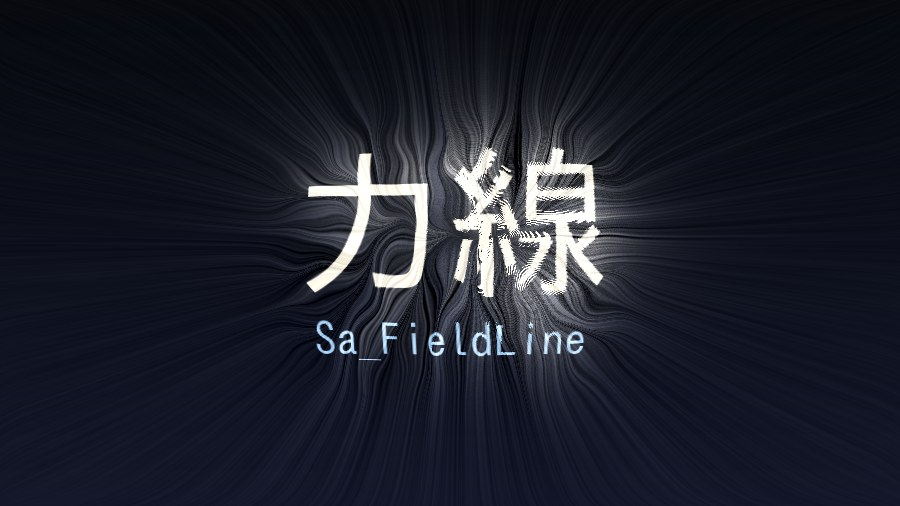
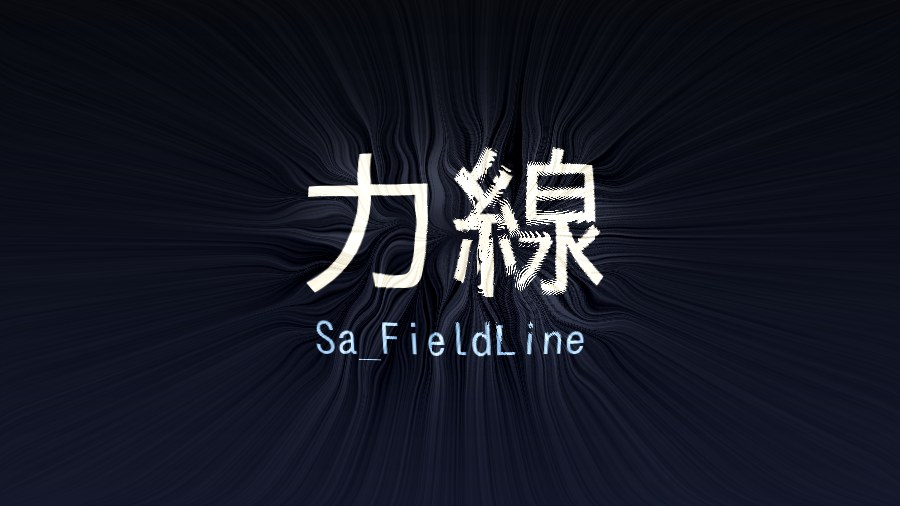
Pull the colour from the ridge, not from a fixed distance
The stretched bands on text came out as soft gradients instead of solid
colour. Measuring the sources showed why: 58% of the high-priority pixels
were picking a background colour.

conf spans a band as wide as the contour scale, so a pixel sitting on the
outer rim of that band is still over the background a few pixels upstream.
It then becomes a strong seed carrying the background colour, and it
outranks the real contour colour in the argmax. The bands were being
blocked by their own halo.

The pick now climbs to the ridge of the contour density instead, looking
at four points upstream and weighting them by how much higher phi is than
here. A pixel already on the ridge — inside a glyph or a line drawing —
gets no weight anywhere and keeps its own colour, which is what stops the
glyph faces being painted over with background.

Weighting rather than taking the highest matters: argmax flips which point
wins between neighbouring pixels and the comb pattern comes back (0.0089 →
0.0249 on the synthetic scene). The weighted mean is smooth in space and
the ridge still dominates: comb 0.0160 and the bands are slightly brighter
than argmax gave (37.7% vs 36.2%).

The search distance is max(parameter, 2 sigma_edge) — the band it has to
cross is set by the contour scale, so the parameter alone cannot know it.
Colour is also unpremultiplied at the pick now, so a colour taken from a
semi-transparent edge does not come out dark in a band we then paint at
full opacity.
[…]

Changed region(s): [[0.3111, 0.2075, 0.7156, 0.7411]]

diff --git a/prototype/gpu_sim.py b/prototype/gpu_sim.py
@@ -37,6 +37,8 @@ K_COH = 3.10           # p99(|v|) / rms(|v|)
 K_CURL = 0.014         # p97(curl)
 K_TURB = 0.08          # p88(turb) より大きめ。smoothness を上げた時だけ緩む
 LINE_SEED_EDGE = 0.7   # 力線の種を輪郭近くへ寄せる度合い
+PICK_GAIN = 6.0        # 色を拾う時、φ の登り幅に対する重みの立ち上がり
+PICK_OWN = 0.02        # 登り先が無い時に自分の色を残すための基礎重み
 K_GRAD = 0.30          # p99(|grad phi| * gs / phi_scale)
 
 # 較正用に build_field が途中経過を残す（calibrate_gpu.py が読む）
@@ -309,6 +311,17 @@ def build_field(rgb, p: GpuParams):
     }
 
 
+def pick_range(p: "GpuParams") -> float:
+    """色を拾うために上流を探す距離 [px]。
+
+    conf は輪郭のスケール（= detail_scale が決めるオクターブの σ）ぶん太い帯になる。
+    その帯を跨げない距離では、帯の外縁が背景色を運ぶ種になってしまう。
+    """
+    mu = (1.0 - float(np.clip(p.detail_scale, 0.0, 1.0))) * (EDGE_OCTAVES - 1)
+    edge_sigma = p.base_sigma * (2.0 ** mu)
+    return max(p.stretch_pick, 2.0 * edge_sigma)
+
+
 def _step_count(length, step_px, cap):
     return int(np.clip(round(abs(length) / max(step_px, 0.2)), 8, cap))
 
@@ -401,8 +414,28 @@ def stretch(colour, F, p: GpuParams):
     hs = (total_px / n) / S              # texel 単位の歩幅
     tie = 0.03 / max(total_px, 1.0)
 
-    pick = p.stretch_pick / S
-    col = _clampsamp(col0, yy - dy * pick, xx - dx * pick)
+    # 固定距離で拾ってはいけない。conf は輪郭のスケールぶん太い帯になるので、
+    # 帯の外縁にいる画素は数 px 上流を見ても背景のままで、
+    # 「背景色を運ぶ強い種」になって本来の輪郭色を塞ぐ。帯が眠くなる原因はこれ。
+    # 代わりに φ の尾根まで登り、登り切った所の色を拾う。すでに尾根にいる画素
+    # （＝構造の内側）は自分の色のままになるので、文字や線画の面が塗り潰されない。
+    # argmax で 1 点を選ぶと、隣接画素で選ばれる点が切り替わって細かい縞が出る。
+    # 「自分より φ が高いぶん」で重み付けした平均にすると空間的に滑らかになり、
+    # なおかつ尾根の色が支配的になる。登り先が無ければ自分の色のまま。
+    pick = pick_range(p) / S
+    phi = d2d_up(F["B"][..., 1], (lh, lw))
+    own = _clampsamp(col0, yy, xx)
+    phi0 = _clampsamp(phi, yy, xx)
+    acc = own * PICK_OWN
+    wsum = np.full((lh, lw), PICK_OWN, np.float32)
+    for i in range(1, 5):
+        t = i * 0.25
+        sy = yy - dy * (pick * t)
+        sx = xx - dx * (pick * t)
+        wt = np.clip((_clampsamp(phi, sy, sx) - phi0) * PICK_GAIN, 0.0, 1.0) ** 2
+        acc = acc + _clampsamp(col0, sy, sx) * wt[..., None]
+        wsum = wsum + wt
+    col = (acc / wsum[..., None]).astype(np.float32)
     score = prio.copy()                  # score = 優先度 - tie * 伝播距離
 
     for _ in range(n):

diff --git a/prototype/fieldline.py b/prototype/fieldline.py
@@ -246,6 +246,16 @@ def _sample(img: np.ndarray, y: np.ndarray, x: np.ndarray, mode: str = "reflect"
 
 
 
+def _pick_range(p: Params) -> float:
+    """色を拾うために上流を探す距離 [px]。
+
+    conf は輪郭のスケール（= detail_scale が決めるオクターブの σ）ぶん太い帯になる。
+    その帯を跨げない距離では、帯の外縁が背景色を運ぶ種になってしまう。
+    """
+    mu = (1.0 - float(np.clip(p.detail_scale, 0.0, 1.0))) * (p.octaves - 1)
+    return max(p.stretch_pick, 2.0 * p.base_sigma * (2.0 ** mu))
+
+
 def _step_count(p: Params, length: float) -> int:
     """歩幅が px 単位で一定になるようにステップ数を決める（ジャギー防止）。"""
     return int(np.clip(round(abs(length) / max(p.step_px, 0.2)), 8, p.steps))
@@ -456,11 +466,31 @@ def flow_flood(fieldset, lin: np.ndarray, p: Params, length_scale: float = 1.0):
     n = _step_count(p, total)
     hstep = total / n
 
-    # 輪郭ちょうどは線画の色なので、少し内側（上流）から色を拾う
-    if p.stretch_pick > 1e-3:
-        col = _sample(lin, yy - dy * p.stretch_pick, xx - dx * p.stretch_pick)
-    else:
-        col = lin.copy()
+    # 輪郭ちょうどは線画の色なので、上流（面の側）から色を拾う。
+    #
+    # 固定距離で拾ってはいけない。conf は輪郭のスケールぶん太い帯になるので、
+    # 帯の外縁にいる画素は数 px 上流を見ても背景のままで、
+    # 「背景色を運ぶ強い種」になって本来の輪郭色を塞ぐ。帯が眠くなる原因はこれ。
+    # 代わりに φ（輪郭密度）の尾根まで登り、登り切った所の色を拾う。
+    # すでに尾根にいる画素（＝構造の内側）は自分の色のままになるので、
+    # 文字や線画の面が背景色で塗り潰されない。
+    # argmax で 1 点を選ぶと、隣接画素で選ばれる点が切り替わって細かい縞が出る。
+    # 「自分より φ が高いぶん」で重み付けした平均にすると空間的に滑らかになり、
+    # なおかつ尾根の色が支配的になる。登り先が無ければ自分の色のまま。
+    pick = _pick_range(p)
+    phi = fieldset["phi"]
+    own = _sample(lin, yy, xx)
+    phi0 = _sample(phi, yy, xx)
+    acc = own * 0.02
+    wsum = np.full((h, w), 0.02, np.float32)
+    for i in range(1, 5):
+        t = i * 0.25
+        sy = yy - dy * (pick * t)
+        sx = xx - dx * (pick * t)
+        wt = np.clip((_sample(phi, sy, sx) - phi0) * 6.0, 0.0, 1.0) ** 2
+        acc = acc + _sample(lin, sy, sx) * wt[..., None]
+        wsum = wsum + wt
+    col = (acc / wsum[..., None]).astype(np.float32)
 
     src = prio.copy()                      # 受け継いだ輪郭の強さ
     dist = np.zeros((h, w), np.float32)    # そこから伝播してきた距離

diff --git a/FieldLineProcessor.cs b/FieldLineProcessor.cs
@@ -252,6 +252,7 @@ internal sealed class FieldLineProcessor : IVideoEffectProcessor
         stretchInit.SetInput(0, advectOut, true);
         stretchInit.SetInput(1, radialOut, true);
         stretchInit.SetInput(2, prioCrop.Output, true);
+        stretchInit.SetInput(3, fieldBOut, true);
 
         composite.SetInput(0, advectOut, true);
 
@@ -470,13 +471,18 @@ internal sealed class FieldLineProcessor : IVideoEffectProcessor
             FieldLineGraph.SetBlurSigma(prioBlur.Effect, (float)stretchWidth);
             FieldLineGraph.SetCropRect(prioCrop.Effect, rect);
 
-            stretchInit.C0 = new Vector4((float)pick, radialScale, 0f, 0f);
+            // conf は輪郭のスケールぶん太い帯になるので、色を拾う探索距離は
+            // その帯を跨げるだけ要る。足りないと帯の外縁が背景色を運ぶ種になり、
+            // 本来の輪郭色を塞いで帯が眠くなる。
+            var edgeSigma = BaseSigma * Math.Pow(2d, mu);
+            var pickRange = Math.Max(pick, 2d * edgeSigma);
+            stretchInit.C0 = new Vector4((float)pickRange, radialScale, 0f, 0f);
             stretchInit.C2 = rect;
             stretchInit.C3 = fieldRect;
             // 伝播は 100 パス近く連なるので、入力は「一部を広げて」ではなく「全体」を要求する。
             // 広げる形だと、D2D がタイルに分けて描いた時に上流の連鎖が
             // タイルごとに描き直され、深さぶんだけ無駄が積み上がる。
-            stretchInit.C5 = new Vector4(0f, 0f, 0f, 3f);
+            stretchInit.C5 = new Vector4(0f, 0f, 0f, 11f);   // 入力 0,1,3 は全体が要る
 
             var stepC0 = new Vector4((float)stepPx, radialScale, (float)tie, 0f);
             var stepC5 = new Vector4(0f, 0f, 0f, 3f);

diff --git a/FieldLineEffect.cs b/FieldLineEffect.cs
@@ -69,9 +69,9 @@ public sealed class FieldLineEffect : VideoEffectBase
     [AnimationSlider("F1", "px", 0, 64)]
     public Animation StretchWidth { get; } = new(0, 0, 256);
 
-    [Display(Name = "色を拾う位置", Description = "輪郭よりどれだけ内側の色を引き出すか。線画の黒ではなく面の色を出したい時に上げます", Order = 12)]
+    [Display(Name = "色を拾う位置", Description = "輪郭よりどれだけ内側の色を探すか。上流を探して「自分と実際に違う色」を拾います。輪郭の細かさに応じて自動で広がるので、これはその下限です", Order = 12)]
     [AnimationSlider("F1", "px", 0, 32)]
-    public Animation StretchPick { get; } = new(3, 0, 128);
+    public Animation StretchPick { get; } = new(4, 0, 128);
 
     [Display(Name = "引き伸ばしのひねり", Description = "放射をひねります。0%で真っ直ぐ外向きです", Order = 13)]
     [AnimationSlider("F1", "%", -100, 100)]

diff --git a/Effects/StretchInitPass.cs b/Effects/StretchInitPass.cs
@@ -30,7 +30,7 @@ internal sealed class StretchInitPass : D2D1CustomShaderEffectBase
     public Vector4 C4 { set => SetValue((int)Impl.Properties.C4, value); }
     public Vector4 C5 { set => SetValue((int)Impl.Properties.C5, value); }
 
-    [CustomEffect(3)]
+    [CustomEffect(4)]
     internal sealed class Impl : D2D1CustomShaderEffectImplBase<Impl>
     {
         Constants constants;

diff --git a/docs/YMM4_IMPLEMENTATION.md b/docs/YMM4_IMPLEMENTATION.md
@@ -114,6 +114,44 @@ percentile と RMS の比は `K_MAG` 等の定数で吸収する。値は
 必要なパス数は `流線の長さ ÷ 1.5px`。UI の **ステップ数**（既定 192）がこれを上限で抑えるので、
 長い流線では上げる必要がある。足りないと 1 歩が粗くなって縞が戻る。
 
+### 3b. 色を拾う位置は φ の尾根まで登る
+
+輪郭ちょうどは線画の色なので、少し上流（面の側）から色を拾う。
+ここを**固定距離**にしてはいけない。
+
+`conf` は輪郭のスケール（`輪郭の細かさ` が決めるオクターブの σ）ぶん太い帯になる。
+帯の外縁にいる画素は数 px 上流を見ても**まだ背景の上**なので、
+「背景色を運ぶ強い種」になって本来の輪郭色を塞ぐ。文字に掛けて実測したところ、
+**優先度の高い画素の 58% が背景色を拾っていた**。帯が眠くなる原因はこれだった。
+
+代わりに上流を 4 点見て、**φ（輪郭密度）の尾根の色**を拾う。
+
+- 帯の外縁にいる画素は、登り切った先＝輪郭の芯で色を拾う
+- すでに尾根にいる画素（＝構造の内側）は**自分の色のまま**になるので、
+  文字や線画の面が背景色で塗り潰されない
+
+ここで **argmax（1 点を選ぶ）にしてはいけない**。隣接画素で選ばれる点が切り替わり、
+細かい縞が出る（合成テスト画像で縞の検出値が 0.0089 → 0.0249 に跳ねた）。
+**「自分より φ が高いぶん」で重み付けした平均**にすると空間的に滑らかになり、
+それでいて尾根の色が支配的になる。登り先が無ければ重みが全部 0 になり、自分の色が残る。
+
+    w = saturate((φ_i − φ_自分) * 6)² 、自分には基礎重み 0.02
+
+実測（合成画像の縞 / 文字の帯の明るさ）:
+
+| | 縞 | 帯の明るさ |
+| --- | --- | --- |
+| argmax | 0.0249 | 36.2% |
+| 重み付け平均 | **0.0160** | **37.7%** |
+
+縞が消えたうえに帯はむしろ明るい。
+
+探索距離は `max(ユーザー指定, 2σ_edge)`。σ_edge はオクターブ重みの重心から出す。
+UI の `色を拾う位置` はその下限として働く。
+
+色はここで**ストレートに戻して**運ぶ。プリマルチプライのまま運ぶと、
+半透明の縁から拾った色がそのぶん暗くなり、不透明で塗る帯が濁る。
+
 ### 4. スコア 1 本で距離も兼ねる
 
 リファレンスは「輪郭の強さ」と「伝播距離」を別々に運び、
